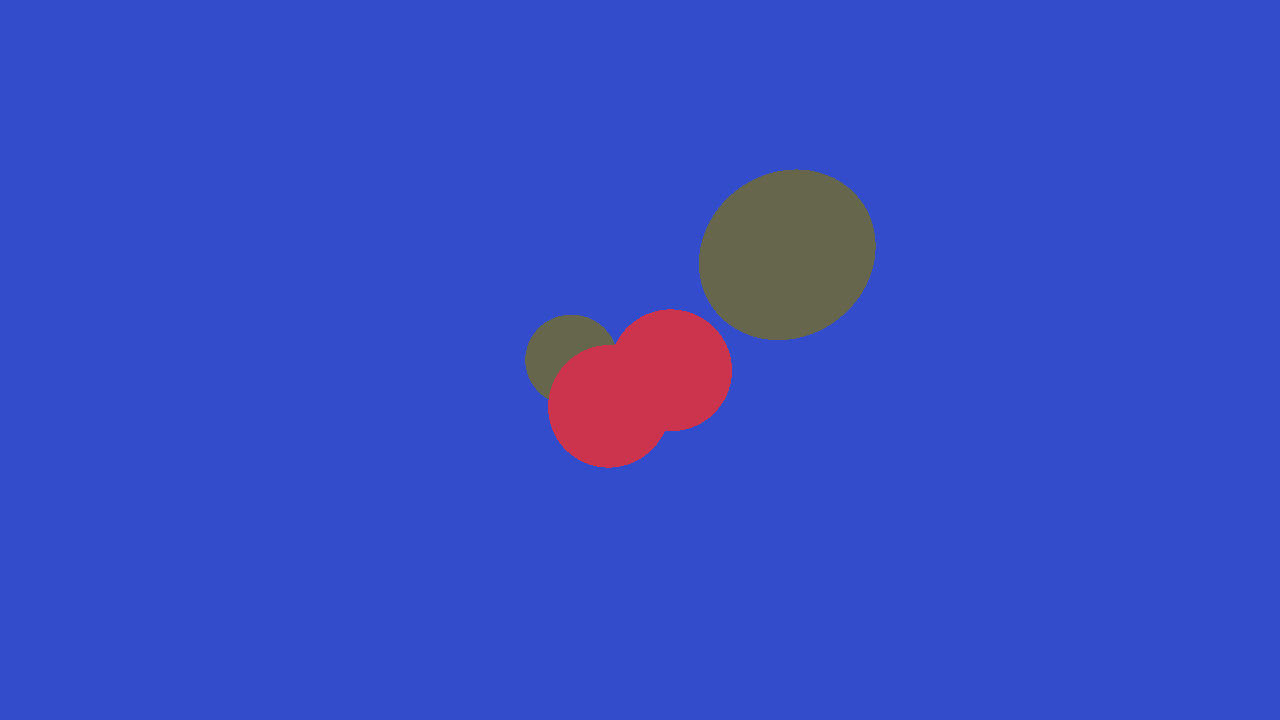
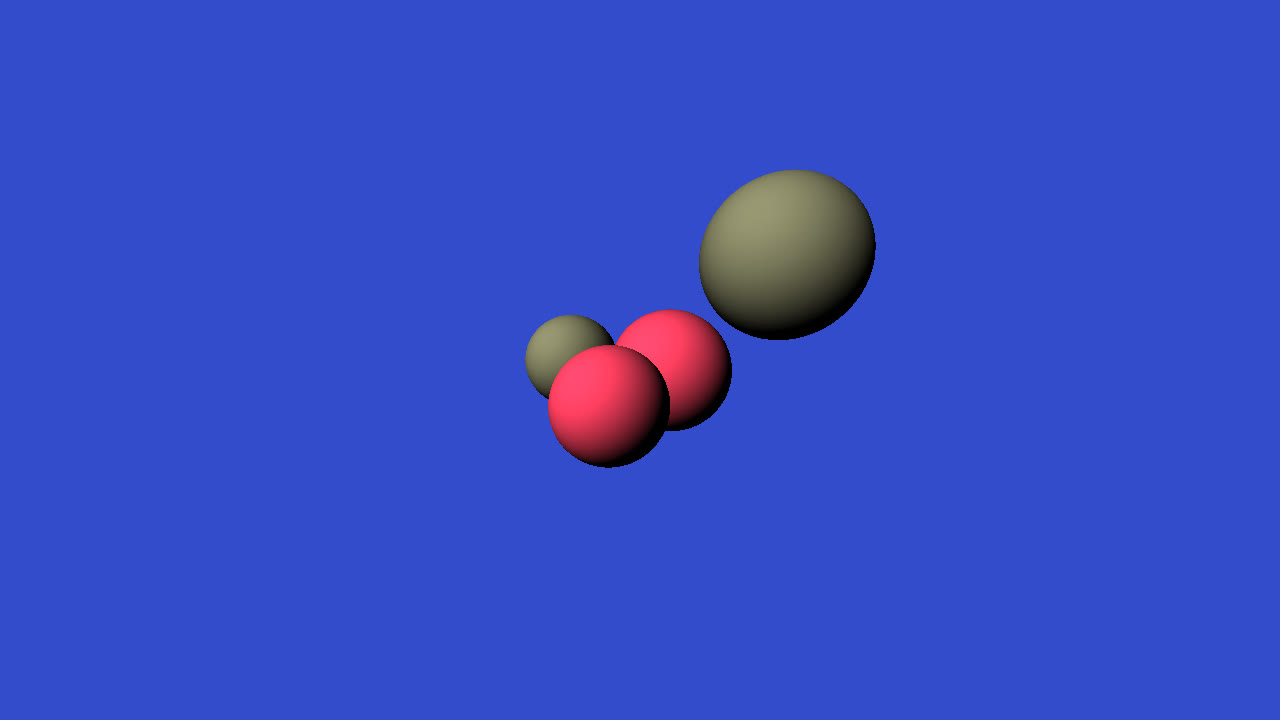
添加了漫反射光

Changed region(s): [[0.4062, 0.2444, 0.6875, 0.6722]]

diff --git a/RayTracer/src/main.cpp b/RayTracer/src/main.cpp
@@ -7,6 +7,13 @@
 
 #define PI 3.14159265358979323846
 
+struct Light
+{
+	Light(const vec3& p, float i) : position(p), intensity(i) {}
+	vec3 position;
+	float intensity;
+};
+
 struct Material
 {
 	Material(const vec3& color) : diffuse_color(color) {}
@@ -68,18 +75,24 @@ bool scene_intersect(const Ray& ray, const std::vector<Sphere>& spheres, vec3& h
 	return sphere_dist < 1000.0f;
 }
 
-vec3 castRay(const Ray& ray, const std::vector<Sphere>& spheres)
+vec3 castRay(const Ray& ray, const std::vector<Sphere>& spheres, const std::vector<Light>& lights)
 {
 	vec3 point, N;
 	Material material;
 	// background color
 	if (!scene_intersect(ray, spheres, point, N, material))
 		return vec3(0.2f, 0.3f, 0.8f);
+
+	float diffuse_light_intensity = 0;
+	for (uint32_t i = 0; i < lights.size(); ++i) {
+		vec3 light_dir = (lights[i].position - point).normalized();
+		diffuse_light_intensity += lights[i].intensity * std::max(0.0f, dot(light_dir, N));
+	}
 	// sphere color
-	return material.diffuse_color;
+	return diffuse_light_intensity * material.diffuse_color;
 }
 
-void render(const std::vector<Sphere>& spheres)
+void render(const std::vector<Sphere>& spheres, const std::vector<Light>& lights)
 {
 	const int width = 1280;
 	const int height = 720;
@@ -93,7 +106,7 @@ void render(const std::vector<Sphere>& spheres)
 			float x = (2 * (i + 0.5f) / (float)width - 1.0f) * tan(fov / 2.0f) * aspect;
 			float y = -(2 * (j + 0.5f) / (float)height - 1.0f) * tan(fov / 2.0f);
 			vec3 dir = vec3(x, y, -1).normalized();
-			framebuffer[i + j * width] = castRay(Ray(vec3(0.0f), dir), spheres);
+			framebuffer[i + j * width] = castRay(Ray(vec3(0.0f), dir), spheres, lights);
 		}
 	}
 
@@ -119,6 +132,9 @@ int main()
 	spheres.emplace_back(vec3(1.5, -0.5, -18), 3, red);
 	spheres.emplace_back(vec3(7, 5, -18), 4, ivory);
 
-	render(spheres);
+	std::vector<Light> lights;
+	lights.emplace_back(vec3(-20, 20, 20), 1.5);
+
+	render(spheres, lights);
 	return 0;
 }
